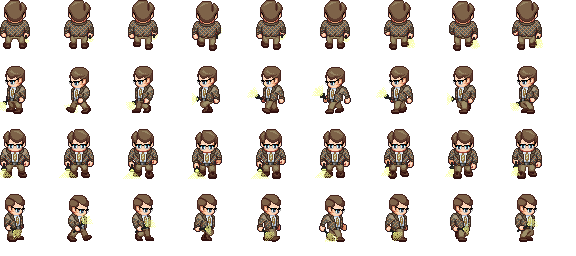
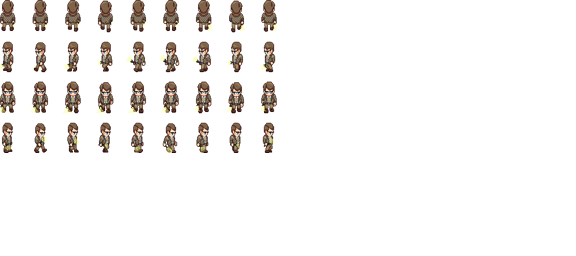
fixed a bug (getting if an object is in view)

diff --git a/NSplatformer/Game.cpp b/NSplatformer/Game.cpp
@@ -15,12 +15,12 @@ void Game::update(const sf::RenderWindow& window) {
 	m_gameView.moveCamera(m_playerPtr->getPos(), { m_playerPtr->getPos().x - m_playerPtr->getOldPos().x,
 		m_playerPtr->getPos().y - m_playerPtr->getOldPos().y });
 	if (sf::FloatRect(m_playerPtr->getPos(), m_playerPtr->getSize()).intersects(m_goalRegion)) {
-		stateManager.setState(new Game("level_n"));
+		//stateManager.setState(new Game("level_n"));
 	}
 }
 
 void Game::render(sf::RenderWindow& window) {
-	//m_gameView.setView(window);
+	m_gameView.setView(window);
 	m_map->render(window);
 	m_objects->render(window, m_gameView);
 }

diff --git a/NSplatformer/DynamicManager.cpp b/NSplatformer/DynamicManager.cpp
@@ -34,14 +34,14 @@ void DynamicManager::update() {
 
 void DynamicManager::render(sf::RenderWindow& window, const GameView& view) {
 	for (Entity* entity : m_entities) {
-		//if (view.isInView(entity->getPos(), entity->getSize())) {
+		if (view.isInView(entity->getPos(), entity->getSize())) {
 			entity->render(window);
-		//}
+		}
 	}
 	for (WorldObj* worldobj : m_worldobjs) {
-		//if (view.isInView(worldobj->getPos(), worldobj->getSize())) {
+		if (view.isInView(worldobj->getPos(), worldobj->getSize())) {
 			worldobj->render(window);
-		//}
+		}
 	}
 }
 

diff --git a/NSplatformer/GameView.cpp b/NSplatformer/GameView.cpp
@@ -61,5 +61,6 @@ void GameView::setView(sf::RenderWindow& window) {
 }
 
 bool GameView::isInView(const sf::Vector2f& pos, const sf::Vector2f& size) const {
-	return m_view.getViewport().intersects({pos, size});
+	return sf::FloatRect( {m_view.getCenter().x - m_view.getSize().x / 2, m_view.getCenter().y - m_view.getSize().y / 2 }, 
+		                   m_view.getSize()).intersects({ pos, size });
 }

diff --git a/NSplatformer/Player.cpp b/NSplatformer/Player.cpp
@@ -4,10 +4,10 @@
 
 Player::Player() {
 	this->setTexture("player");
-	this->setSize({ 16, 31 });
-	p_animation.setSize({ 29, 48 });
+	this->setSize({ 16, 30 });
+	p_animation.setSize({ 16, 30 });
 	p_animation.setFrame(0, 0);
-	p_animation.setSpacing({ 35, 18 });
+	p_animation.setSpacing({ 16, 11 });
 }
 
 void Player::update() {
